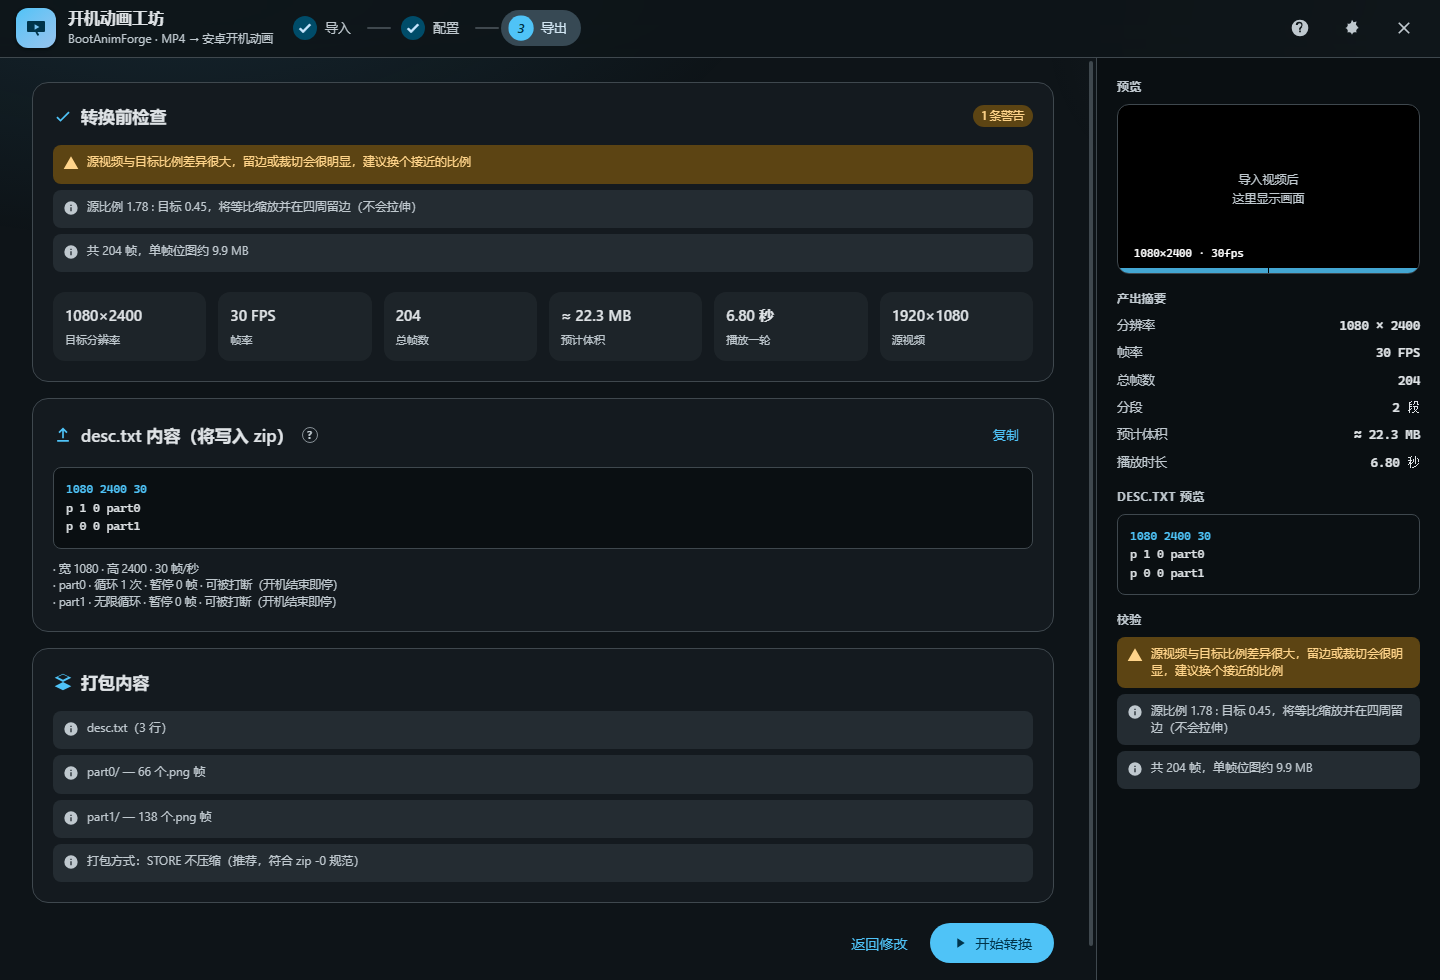
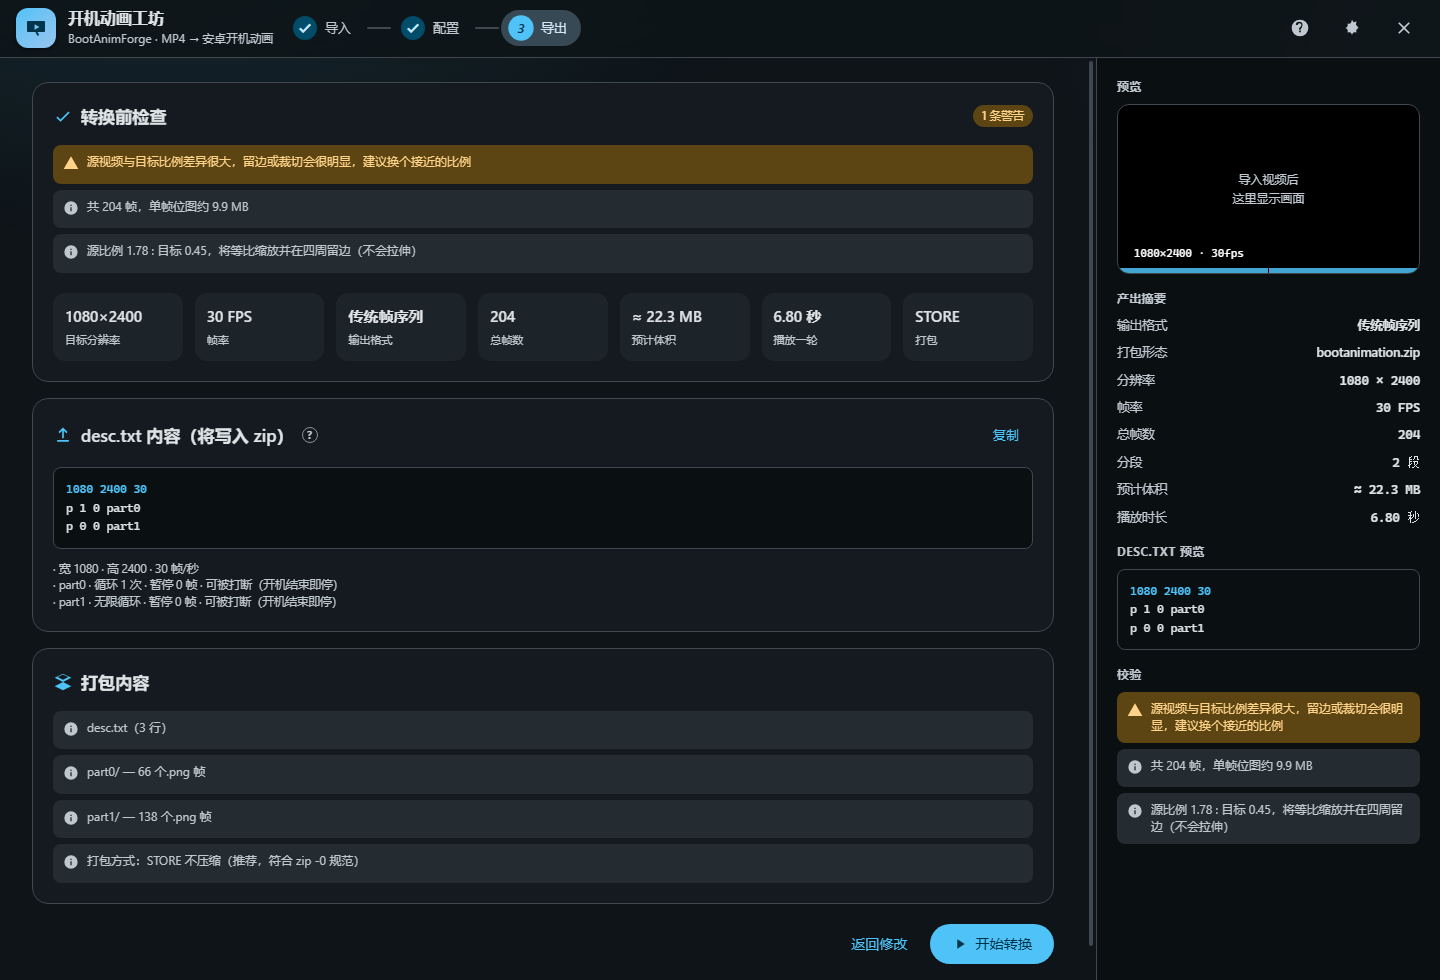
chore: 同步本地版本（2026-10-02 17:40）
包含 Android 12+ 视频版格式、Magisk 模块生成、MD3 动效优化

diff --git a/tools/uicheck.js b/tools/uicheck.js
@@ -130,6 +130,9 @@ class CDP {
     await cdp.send('Runtime.enable');
     await cdp.send('Log.enable');
     await cdp.send('Page.enable');
+    // 应用会把「上次会话」存进 localStorage，第二次运行时可能直接恢复到第 2 步。
+    // 测试需要确定的初始状态，所以在导航前先清掉本地存储。
+    try { await cdp.send('Storage.clearDataForOrigin', { origin: new URL(URL_).origin, storageTypes: 'local_storage' }); } catch { /* 忽略 */ }
     await cdp.send('Page.navigate', { url: URL_ });
 
     const evalJs = async (expr) => {
@@ -342,6 +345,164 @@ class CDP {
       const ts = await cdp.send('Page.captureScreenshot', { format: 'png' });
       fs.writeFileSync(path.join(docDir, 'screenshot-tutorial.png'), Buffer.from(ts.data, 'base64'));
       console.log('文档截图：docs/screenshot-tutorial.png');
+      await evalJs(`document.querySelector('.dialog-head .icon-btn').click()`);
+      await sleep(500);
+
+      // 输出格式 + Magisk 模块设置（滚到对应位置）
+      await evalJs(`window.__baf.actions.demoFill()`);
+      await evalJs(`(()=>{const m=document.querySelector('#in-magisk');m.checked=true;m.dispatchEvent(new Event('change'));
+        document.querySelector('#magisk-opts').hidden=false;})()`);
+      await sleep(700);
+      const scrolled = await evalJs(`(() => {
+        const el = document.querySelector('#format-modes');
+        const y = el.getBoundingClientRect().top + document.querySelector('#content').scrollTop - 90;
+        document.querySelector('#content').scrollTo({ top: y, behavior: 'instant' });
+        return document.querySelector('#content').scrollTop;
+      })()`);
+      await sleep(900);
+      const fs2 = await cdp.send('Page.captureScreenshot', { format: 'png' });
+      fs.writeFileSync(path.join(docDir, 'screenshot-output.png'), Buffer.from(fs2.data, 'base64'));
+      console.log(`文档截图：docs/screenshot-output.png（scrollTop=${scrolled}）`);
+    }
+
+    // ---------- 动效验证（--anim） ----------
+    if (process.argv.includes('--anim')) {
+      console.log('\n=== 动效验证（MD3 运动系统）===');
+
+      // 无头 Chromium 默认上报 prefers-reduced-motion: reduce，而本项目按无障碍要求
+      // 为该偏好提供了「动画压到 1ms」的降级 —— 那会让动效完全测不到。
+      // 所以这里用 CDP 显式声明用户在动画偏好上是 no-preference。
+      await cdp.send('Emulation.setEmulatedMedia', {
+        features: [{ name: 'prefers-reduced-motion', value: 'no-preference' }],
+      });
+      const reduced = await evalJs(`matchMedia('(prefers-reduced-motion: reduce)').matches`);
+      console.log(`  ${reduced === false ? '✓' : '✗'} 已声明 no-preference（当前 reduce=${reduced}）`);
+      if (reduced !== false) errors.push('无法关闭 prefers-reduced-motion，动效测试不可靠');
+
+      const anim = async (label, expr, expect = true) => {
+        let val;
+        try { val = await evalJs(expr); } catch (e) { val = 'ERR:' + e.message; }
+        const good = expect === true ? !!val : val === expect;
+        console.log(`  ${good ? '✓' : '✗'} ${label} → ${JSON.stringify(val)}`);
+        if (!good) errors.push(`动效断言失败：${label} → ${JSON.stringify(val)}`);
+        return val;
+      };
+
+      // 设计令牌确实定义了 MD3 强调曲线
+      const easeVal = await evalJs(`getComputedStyle(document.documentElement).getPropertyValue('--ease-emphasized').trim()`);
+      const easeOk = /cubic-bezier\(\s*\.?0?\.?2\s*,\s*0\s*,\s*0\s*,\s*1\s*\)/.test(easeVal);
+      console.log(`  ${easeOk ? '✓' : '✗'} emphasized 曲线令牌存在 → ${JSON.stringify(easeVal)}`);
+      if (!easeOk) errors.push('--ease-emphasized 不是预期的 cubic-bezier(.2,0,0,1)');
+      await anim('动效时长令牌存在（medium4=400ms）',
+        `getComputedStyle(document.documentElement).getPropertyValue('--dur-medium4').trim()`, '400ms');
+
+      // 前进方向：新视图应带 enter-forward，且过渡确实在跑
+      // goStep(2/3) 需要已载入视频（否则按设计直接返回），所以先放一个测试视频进去。
+      const animVideo = argOf('--video') || path.join(ROOT, '.work', 'selftest', 'src-1280x720-6s.mp4');
+      await evalJs(`window.__baf.actions.loadVideo(${JSON.stringify(animVideo)})`);
+      for (let i = 0; i < 40; i++) {
+        if (await evalJs(`!!window.__baf.state.info`)) break;
+        await sleep(250);
+      }
+      const hasInfo = await evalJs(`!!window.__baf.state.info`);
+      console.log(`  ${hasInfo ? '✓' : '✗'} 测试视频已载入（后续步骤切换才有意义）`);
+      if (!hasInfo) errors.push('动效测试无法载入测试视频');
+
+      await evalJs(`window.__baf.actions.goStep(1)`);
+      await sleep(700);
+      const fromState = await evalJs(`(() => ({ view: window.__baf.state.step,
+        importHidden: document.querySelector('#view-import').hidden,
+        cfgHidden: document.querySelector('#view-configure').hidden }))()`);
+      console.log(`  · 起始状态：step=${fromState.view} import隐藏=${fromState.importHidden} configure隐藏=${fromState.cfgHidden}`);
+
+      const forward = await evalJs(`(() => {
+        window.__baf.actions.goStep(2);
+        const el = document.querySelector('#view-configure');
+        const cs = getComputedStyle(el);
+        return { step: window.__baf.state.step, cls: el.className, hidden: el.hidden,
+                 anim: cs.animationName, dur: cs.animationDuration, tran: cs.transform };
+      })()`);
+      console.log(`  · 前进转场：step=${forward.step} hidden=${forward.hidden} class="${forward.cls}" animation=${forward.anim} ${forward.dur} transform=${forward.tran}`);
+      const fwdOk = /enter-forward/.test(forward.cls) && forward.anim === 'shared-x-in-forward';
+      console.log(`  ${fwdOk ? '✓' : '✗'} 前进时应用 shared-axis 入场动画`);
+      if (!fwdOk) errors.push(`前进转场动画未应用（class="${forward.cls}" anim=${forward.anim}）`);
+      const fwdDur = await anim('入场动画时长为 0.4s（MD3 medium4）', `getComputedStyle(document.querySelector('#view-configure')).animationDuration`, '0.4s');
+
+      // 关键帧本身必须是从右侧（正 translateX）滑入；直接读 CSSOM，避免采样时机带来的抖动
+      const kf = await evalJs(`(() => {
+        for (const sheet of document.styleSheets) {
+          let rules; try { rules = sheet.cssRules; } catch { continue; }
+          for (const r of rules) {
+            if (r.type === CSSRule.KEYFRAMES_RULE && r.name === 'shared-x-in-forward') {
+              const from = [...r.cssRules].find(k => k.keyText === '0%' || k.keyText === 'from');
+              return from ? from.style.transform : null;
+            }
+          }
+        }
+        return null;
+      })()`);
+      const kfOk = typeof kf === 'string' && /translateX\(\s*\d/.test(kf) && !/translateX\(\s*-/.test(kf);
+      console.log(`  ${kfOk ? '✓' : '✗'} 关键帧从右侧滑入（from transform: ${JSON.stringify(kf)}）`);
+      if (!kfOk) errors.push(`入场关键帧的起始位移不是正 X（${kf}）`);
+
+      await sleep(600);
+      // 动画结束后 transform 应为「无变换」：可能是 none，也可能是单位矩阵
+      const settled = await evalJs(`getComputedStyle(document.querySelector('#view-configure')).transform`);
+      const settledOk = settled === 'none' || /^matrix\(1,\s*0,\s*0,\s*1,\s*0,\s*0\)$/.test(settled);
+      console.log(`  ${settledOk ? '✓' : '✗'} 动画结束后复位为无变换 → ${JSON.stringify(settled)}`);
+      if (!settledOk) errors.push(`动画结束后未复位（transform=${settled}）`);
+      await anim('配置页此时可见', `document.querySelector('#view-configure').hidden`, false);
+
+      // 后退方向：反向动画
+      const back = await evalJs(`(() => {
+        window.__baf.actions.goStep(1);
+        const el = document.querySelector('#view-import');
+        return { cls: el.className, anim: getComputedStyle(el).animationName };
+      })()`);
+      console.log(`  · 后退转场：class="${back.cls}" animation=${back.anim}`);
+      const backOk = /enter-back/.test(back.cls) && back.anim === 'shared-x-in-back';
+      console.log(`  ${backOk ? '✓' : '✗'} 后退时使用相反的 shared-axis 动画`);
+      if (!backOk) errors.push('后退转场动画未应用');
+
+      // 旧的视图应播放退出动画而不是直接消失
+      const exiting = await evalJs(`(() => {
+        window.__baf.actions.goStep(2);
+        const old = document.querySelector('#view-import');
+        return { hidden: old.hidden, cls: old.className };
+      })()`);
+      console.log(`  · 旧视图退出中：hidden=${exiting.hidden} class="${exiting.cls}"`);
+      const exitOk = exiting.hidden === false && /exit-/.test(exiting.cls);
+      console.log(`  ${exitOk ? '✓' : '✗'} 旧视图先播放退出动画（未立即消失）`);
+      if (!exitOk) errors.push('旧视图退出动画缺失');
+
+      // 数值变化时播放 pulse
+      await sleep(700);
+      await evalJs(`window.__baf.actions.demoFill()`);
+      await sleep(400);
+      const pulse = await evalJs(`(() => {
+        const n = document.querySelector('#rail-size');
+        const before = n.textContent;
+        window.__baf.state.estimate = { bytes: 999999999, frames: 1, duration: 1 };
+        window.__baf.actions.renderConfigure();
+        const cs = getComputedStyle(n);
+        return { before, after: n.textContent, cls: n.className, anim: cs.animationName };
+      })()`);
+      console.log(`  · 数值变化：${pulse.before} → ${pulse.after} class="${pulse.cls}" animation=${pulse.anim}`);
+      const pulseOk = /pulse/.test(pulse.cls) && pulse.anim === 'pulse-once';
+      console.log(`  ${pulseOk ? '✓' : '✗'} 数值变化时播放脉冲动效`);
+      if (!pulseOk) errors.push('数值脉冲动效未生效');
+
+      await anim('未变化时不会重复触发动画',
+        `(() => { const n = document.querySelector('#rail-size'); n.classList.remove('pulse');
+           window.__baf.actions.renderConfigure(); return n.className.includes('pulse'); })()`, false);
+
+      // 尊重 prefers-reduced-motion
+      const reduce = await evalJs(`(() => {
+        const rules = [...document.styleSheets].flatMap(s => { try { return [...s.cssRules]; } catch { return []; } });
+        return rules.some(r => r.conditionText && r.conditionText.includes('prefers-reduced-motion'));
+      })()`);
+      console.log(`  ${reduce ? '✓' : '✗'} 提供 prefers-reduced-motion 降级规则`);
+      if (!reduce) errors.push('缺少 prefers-reduced-motion 支持');
     }
 
     console.log('\n--- 控制台错误 ---');
@@ -353,7 +514,19 @@ class CDP {
   } finally {
     try { child.kill(); } catch { /* ignore */ }
     await sleep(300);
-    try { fs.rmSync(PROFILE, { recursive: true, force: true }); } catch { /* ignore */ }
+    try { fs.rmSync(PROFILE, { recursive: true, force: true }); } catch { /* 文件可能仍被占用 */ }
   }
-  process.exit(errors.length ? 1 : 0);
+
+  // --docshot 用的是假视频路径，缩略图接口必然返回 400 —— 那是预期噪声，不算错误。
+  const realErrors = process.argv.includes('--docshot')
+    ? errors.filter((e) => !/api\/thumbnail/.test(e))
+    : errors;
+  if (process.argv.includes('--docshot') && realErrors.length !== errors.length) {
+    console.log(`（已忽略 ${errors.length - realErrors.length} 条演示数据产生的缩略图请求错误）`);
+  }
+  if (realErrors.length) {
+    console.log('\n--- 错误汇总 ---');
+    console.log(realErrors.join('\n'));
+  }
+  process.exit(realErrors.length ? 1 : 0);
 })().catch((e) => { console.error('检查失败：', e.message); process.exit(2); });

diff --git a/tools/anim-probe.js b/tools/anim-probe.js
@@ -1,0 +1,101 @@
+'use strict';
+/** anim-probe.js — 单独探针：观察视图切换时的 class 变化 */
+const fs = require('fs');
+const path = require('path');
+const { spawn } = require('child_process');
+const ROOT = path.resolve(__dirname, '..');
+const PROFILE = path.join(ROOT, '.work', 'probe-profile');
+const PORT = 9334;
+
+function findEdge() {
+  const pf = process.env.ProgramFiles || 'C:\\Program Files';
+  const pf86 = process.env['ProgramFiles(x86)'] || 'C:\\Program Files (x86)';
+  return [path.join(pf86, 'Microsoft', 'Edge', 'Application', 'msedge.exe'),
+    path.join(pf, 'Microsoft', 'Edge', 'Application', 'msedge.exe')].find((c) => fs.existsSync(c));
+}
+const sleep = (ms) => new Promise((r) => setTimeout(r, ms));
+
+(async () => {
+  fs.rmSync(PROFILE, { recursive: true, force: true });
+  const child = spawn(findEdge(), ['--headless=new', `--remote-debugging-port=${PORT}`,
+    `--user-data-dir=${PROFILE}`, '--no-first-run', '--disable-gpu', '--window-size=1400,900', 'about:blank'],
+  { stdio: 'ignore', windowsHide: true });
+
+  try {
+    let targets = [];
+    for (let i = 0; i < 40; i++) {
+      try { const r = await fetch(`http://127.0.0.1:${PORT}/json/list`); targets = await r.json(); if (targets.length) break; } catch { /* wait */ }
+      await sleep(250);
+    }
+    const t = targets.find((x) => x.type === 'page');
+    const ws = new WebSocket(t.webSocketDebuggerUrl);
+    await new Promise((res) => ws.addEventListener('open', res, { once: true }));
+    let id = 0; const pending = new Map();
+    ws.addEventListener('message', (ev) => {
+      const m = JSON.parse(ev.data);
+      if (m.id && pending.has(m.id)) { pending.get(m.id)(m); pending.delete(m.id); }
+    });
+    const send = (method, params = {}) => new Promise((res) => { const i = ++id; pending.set(i, res); ws.send(JSON.stringify({ id: i, method, params })); });
+    const evalJs = async (expr) => {
+      const r = await send('Runtime.evaluate', { expression: expr, returnByValue: true, awaitPromise: true });
+      if (r.result?.exceptionDetails) return 'EXC:' + JSON.stringify(r.result.exceptionDetails).slice(0, 200);
+      return r.result?.result?.value;
+    };
+
+    await send('Runtime.enable');
+    await send('Page.enable');
+    await send('Emulation.setEmulatedMedia', { features: [{ name: 'prefers-reduced-motion', value: 'no-preference' }] });
+    await send('Page.navigate', { url: 'http://127.0.0.1:17321/' });
+    for (let i = 0; i < 40; i++) { if (await evalJs(`!!document.querySelector('.step-chip')`)) break; await sleep(250); }
+    await sleep(1200);
+
+    console.log('reduce =', await evalJs(`matchMedia('(prefers-reduced-motion: reduce)').matches`));
+
+    // 在页面内部挂钩，记录 class 变化
+    await evalJs(`
+      window.__log = [];
+      const target = document.querySelector('#view-configure');
+      const mo = new MutationObserver((muts) => {
+        for (const m of muts) if (m.attributeName === 'class') window.__log.push('class=' + target.className + ' hidden=' + target.hidden);
+      });
+      mo.observe(target, { attributes: true, attributeFilter: ['class', 'hidden'] });
+      window.__mo = mo;
+    `);
+
+    console.log('\n--- 直接调用 goStep(2) ---');
+    console.log('同步观察 :', await evalJs(`(() => {
+        const before = document.querySelector('#view-configure').className;
+        window.__baf.actions.goStep(2);
+        const el = document.querySelector('#view-configure');
+        return { before, after: el.className, hidden: el.hidden,
+                 anim: getComputedStyle(el).animationName, dur: getComputedStyle(el).animationDuration };
+      })()`));
+    await sleep(120);
+    console.log('120ms 后 :', await evalJs(`(() => { const el=document.querySelector('#view-configure');
+        return { cls: el.className, anim: getComputedStyle(el).animationName, tf: getComputedStyle(el).transform }; })()`));
+    await sleep(600);
+    console.log('720ms 后 :', await evalJs(`(() => { const el=document.querySelector('#view-configure');
+        return { cls: el.className, anim: getComputedStyle(el).animationName }; })()`));
+    console.log('class 变化记录:', await evalJs(`window.__log`));
+
+    // 该元素命中了哪些 CSS 规则？
+    console.log('\n--- 命中 .enter-forward 的规则 ---');
+    console.log(await evalJs(`(() => {
+      const out = [];
+      for (const sheet of document.styleSheets) {
+        let rules; try { rules = sheet.cssRules; } catch { continue; }
+        for (const r of rules) {
+          if (r.selectorText && r.selectorText.includes('enter-forward')) out.push(r.selectorText + ' { ' + r.style.cssText + ' }');
+          if (r.cssRules) for (const rr of r.cssRules) {
+            if (rr.selectorText && rr.selectorText.includes('enter-forward')) out.push('[in @media ' + (r.conditionText||'') + '] ' + rr.selectorText + ' { ' + rr.style.cssText + ' }');
+          }
+        }
+      }
+      return out;
+    })()`));
+  } finally {
+    try { child.kill(); } catch { /* ignore */ }
+    await sleep(300);
+    fs.rmSync(PROFILE, { recursive: true, force: true });
+  }
+})();

diff --git a/src/server.js b/src/server.js
@@ -409,12 +409,21 @@ async function serveFile(req, res, filePath, allowRange = false) {
 
   const ext = path.extname(filePath).toLowerCase();
   const type = MIME[ext] || 'application/octet-stream';
+
+  // 用 mtime+size 做 ETag：改了代码立刻生效，没改则走 304，不必手动清缓存。
+  // （不能让浏览器按 max-age 缓存，否则前端改了而浏览器还在用旧文件——这个坑真踩过。）
+  const etag = `W/"${st.size.toString(16)}-${Math.floor(st.mtimeMs).toString(16)}"`;
   const headers = {
     'Content-Type': type,
-    'Cache-Control': ext === '.html' ? 'no-store' : 'public, max-age=60',
+    'ETag': etag,
+    'Cache-Control': 'no-cache',
     'Access-Control-Allow-Origin': '*',
     'Accept-Ranges': allowRange ? 'bytes' : 'none',
   };
+  if (req.headers['if-none-match'] === etag) {
+    res.writeHead(304, { ETag: etag, 'Cache-Control': 'no-cache' });
+    return res.end();
+  }
 
   let start = 0;
   let end = st.size - 1;

diff --git a/README.md b/README.md
@@ -52,6 +52,9 @@
   - **视频版（Android 12+）**：`bootanimation.mp4`，体积通常只有帧序列的 1/10，自动保证 **moov 前置 + yuv420p + Main profile + 无 B 帧**
 - **分段与循环**：时间轴上随时切分，每段独立设置 `p/c/f` 类型、循环次数（0 = 无限）、暂停帧数、淡出帧数、背景色。
 - **一键生成 Magisk 模块**：额外产出一个可直接刷入的模块 zip（`module.prop` + `customize.sh` + 系统载荷 + 中文说明），卸载即恢复原动画。
+
+<img src="docs/screenshot-output.png" alt="输出格式与 Magisk 模块设置" width="720">
+
 - **试播**：按 `desc.txt` 的真实播放逻辑（循环次数 + 暂停）模拟一遍，直观看到开机时会怎么播。
 - **合规输出**：传统格式的 `desc.txt` 严格按 AOSP 规范生成；zip 默认 `STORE`（等价 `zip -0`），帧按序存放，产出前自动自检。
 - **大量可自定义项**：分辨率、帧率、图片格式（PNG 三档压缩 / JPEG 质量）、透明通道、背景色、zip 压缩、视频版 CRF 与 preset、音轨码率、输出目录与文件名、Magisk 模块元信息与写入路径。
@@ -184,8 +187,10 @@ BootAnimForge/
 node tools/fetch-ffmpeg.js        # 准备引擎
 node tools/selftest.js            # 后端端到端：75 项断言
 node tools/server-ctl.js start    # 起服务
-node tools/uicheck.js --flow      # 无头浏览器跑完整流程：28 项断言
+node tools/uicheck.js --flow      # 无头浏览器跑完整流程：35 项断言
+node tools/uicheck.js --anim      # 动效验证：14 项断言（MD3 运动系统）
 node tools/uicheck.js --docshot   # 重新生成 docs/ 下的截图
+node tools/make-portable.js       # 打便携包（含 ffmpeg 引擎）
 ```
 
 `selftest.js` 会用 ffmpeg 合成测试素材（横屏、旋转、带 alpha），覆盖：
@@ -200,6 +205,12 @@ node tools/uicheck.js --docshot   # 重新生成 docs/ 下的截图
 
 `uicheck.js` 用 Edge 无头模式 + DevTools 协议驱动真实界面：载入视频 → 改参数 → 切分 → 导出 →
 真跑一次传统格式转换 → 切到视频版 + Magisk → 再跑一次，并收集控制台错误。
+`--anim` 额外验证运动系统：强调曲线令牌、shared-axis X 转场的方向与时长、关键帧起始位移、
+旧视图退出动画、数值脉冲，以及 `prefers-reduced-motion` 降级是否真的生效。
+
+> 一个测试上的坑值得记下来：无头 Chromium 默认上报 `prefers-reduced-motion: reduce`，
+> 而本项目按无障碍要求为这个偏好把动画压到 1ms —— 于是动效断言全部"看起来失败"。
+> 现在测试用 CDP 的 `Emulation.setEmulatedMedia` 显式声明 `no-preference` 再测。
 
 ---
 
